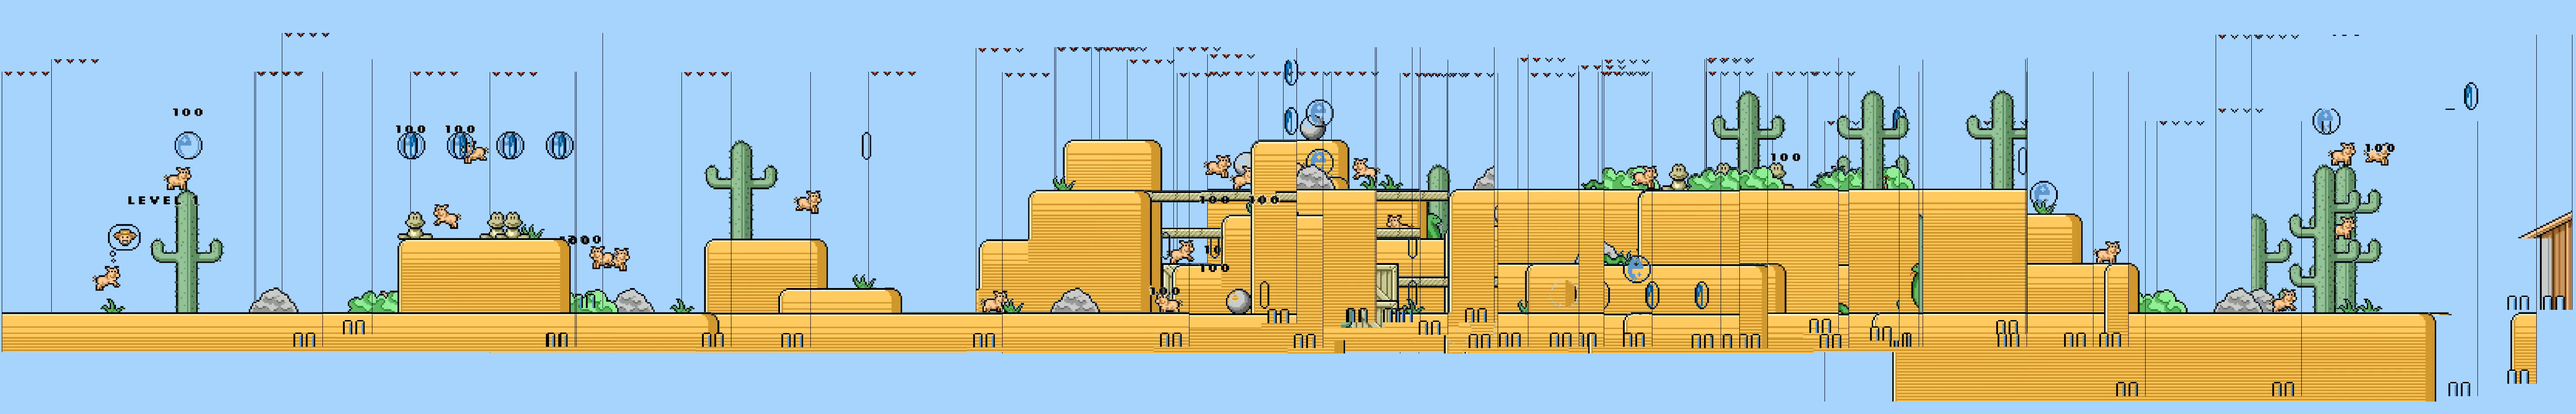
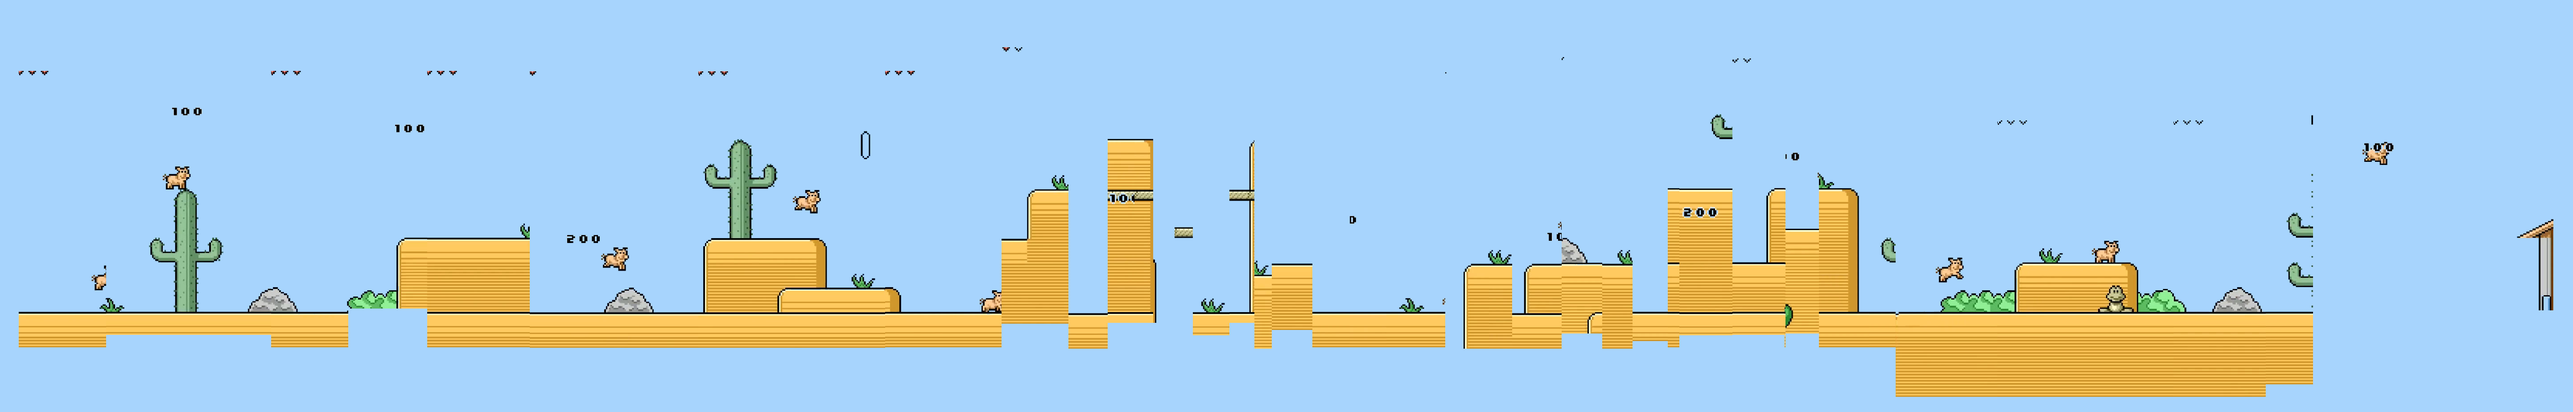
Pack level 1 to the panorama and add reference strips for all 11 levels.
Level 1 is about 120 tiles: a deeper pit with the rope and column, a 4-tile block, swirl coins, and the bushes and frogs from the frames. Each level now has a stitched panorama and a compare strip.

diff --git a/js/levels.js b/js/levels.js
@@ -12,77 +12,66 @@ var LEVELS = [
     id: 1,
     biome: 'desert',
     sky: 'day',
-    cols: 250,
+    cols: 120,
     rows: 18,
     exit: 'edge',
     goals: {},
-    /* Level 1 from the frames. Flat sand, tall saguaro, rock and grass,
-       then the frog block and four coins, a rope over the pit (column,
-       sphere, crate), stairs, a snake ledge, a high plateau, and the
-       wooden building. No wheeled plank and no swirl sign in the frames. */
-    ground: [[0, 249, 13]],
+    /* Level 1 packed to the stitched panorama, about 120 tiles.
+       Flat sand, saguaro, rock and grass, the 4-tile frog block and four
+       swirls, a cactus terrace, then a deep pit (rope, column, sphere,
+       crate), a plateau with bushes and frogs, and the wood building. */
+    ground: [[0, 119, 13]],
     rects: [
-      [18, 10, 14, 3, TILE.SOLID],
-      [34, 12, 8, 1, TILE.SOLID],
-      [48, 12, 4, 1, TILE.SOLID],
-      [52, 11, 4, 2, TILE.SOLID],
-      [56, 10, 10, 3, TILE.SOLID],
-      [66, 7, 3, 2, TILE.SOLID],
-      [66, 10, 3, 3, TILE.SOLID],
-      [78, 10, 12, 3, TILE.SOLID],
-      [90, 11, 4, 2, TILE.SOLID],
-      [94, 12, 4, 1, TILE.SOLID],
-      [118, 11, 6, 2, TILE.SOLID],
-      [126, 12, 4, 1, TILE.SOLID],
-      [130, 11, 4, 2, TILE.SOLID],
-      [134, 10, 12, 3, TILE.SOLID],
-      [148, 8, 8, 5, TILE.SOLID],
-      [158, 7, 18, 6, TILE.SOLID],
-      [180, 10, 6, 3, TILE.SOLID],
-      [190, 12, 6, 1, TILE.SOLID],
-      [200, 11, 8, 2, TILE.SOLID],
-      [212, 10, 8, 3, TILE.SOLID],
-      [224, 12, 6, 1, TILE.SOLID]
+      [18, 9, 10, 4, TILE.SOLID],
+      [32, 9, 8, 4, TILE.SOLID],
+      [40, 12, 5, 1, TILE.SOLID],
+      [46, 12, 3, 1, TILE.SOLID],
+      [48, 10, 3, 3, TILE.SOLID],
+      [51, 7, 6, 6, TILE.SOLID],
+      [58, 4, 3, 2, TILE.SOLID],
+      [58, 7, 3, 6, TILE.SOLID],
+      [66, 7, 8, 6, TILE.SOLID],
+      [78, 12, 3, 1, TILE.SOLID],
+      [80, 11, 3, 2, TILE.SOLID],
+      [82, 9, 18, 4, TILE.SOLID],
+      [100, 10, 4, 3, TILE.SOLID],
+      [104, 11, 4, 2, TILE.SOLID],
+      [108, 11, 6, 2, TILE.SOLID]
     ],
-    ropes: [[58, 9, 24]],
+    ropes: [[52, 6, 16]],
     tokens: [
-      [7, 4],
-      [20, 5], [23, 5], [26, 5], [29, 5],
-      [62, 7], [72, 6], [76, 7],
-      [104, 5], [104, 7],
-      [110, 6], [114, 6], [117, 6],
-      [128, 11], [132, 11], [136, 11],
-      [178, 8],
-      [214, 5],
-      [230, 8]
+      [8, 4],
+      [20, 4], [22, 4], [25, 4], [27, 4],
+      [54, 5], [60, 4], [63, 5],
+      [75, 6], [75, 8],
+      [84, 6], [88, 6], [92, 6],
+      [110, 6]
     ],
-    frogs: [[28, 9], [168, 6]],
-    snakes: [[140, 9, 3]],
-    cacti: [[6, 12], [40, 11], [102, 12], [162, 6], [196, 11], [214, 9], [232, 12]],
-    buildings: [[238, 8, 8, 5, 'shed']],
-    boulders: [[67, 6, 30]],
-    crates: [[63, 12]],
-    tufts: [[4, 12], [36, 11], [100, 12], [160, 6], [216, 9]],
-    bushes: [[12, 12], [32, 11], [166, 6], [202, 10]],
-    rocks: [[11, 12], [84, 9], [150, 7], [182, 9], [222, 12]],
+    frogs: [[23, 8], [84, 8], [94, 8]],
+    snakes: [[49, 9, 3]],
+    cacti: [[7, 12], [33, 8], [74, 12], [86, 8], [109, 10]],
+    buildings: [[114, 8, 6, 5, 'shed']],
+    boulders: [[59, 3, 30]],
+    crates: [[62, 12]],
+    tufts: [[4, 12], [42, 11], [80, 8], [110, 10]],
+    bushes: [[17, 12], [28, 12], [82, 8], [90, 8], [96, 8]],
+    rocks: [[13, 12], [30, 12], [68, 6], [106, 12]],
     script: [
-      ['goto', 6, 12],
-      ['goto', 6, 6],
-      ['goto', 18, 9],
+      ['goto', 7, 12],
+      ['goto', 7, 6],
+      ['goto', 22, 8],
       ['stomp', 'frog'],
-      ['goto', 38, 11],
-      ['goto', 60, 9],
-      ['goto', 84, 9],
-      ['goto', 104, 12],
-      ['goto', 136, 9],
+      ['goto', 34, 8],
+      ['goto', 42, 11],
       ['stomp', 'snake'],
-      ['goto', 152, 7],
-      ['goto', 162, 6],
+      ['goto', 54, 6],
+      ['goto', 70, 6],
+      ['goto', 76, 12],
+      ['goto', 82, 8],
       ['stomp', 'frog'],
-      ['goto', 184, 9],
-      ['goto', 204, 10],
-      ['goto', 216, 9],
-      ['goto', 246, 12]
+      ['stomp', 'frog'],
+      ['goto', 110, 10],
+      ['goto', 118, 12]
     ]
   },
   {

diff --git a/js/art.js b/js/art.js
@@ -175,11 +175,18 @@ var ART = (function () {
   }
 
   function coin(ctx, x, y) {
-    blob(ctx, x + 6, y + 8, 6.5, 6.5, '#3a86e8', '#14325f');
+    var cx = x + 6, cy = y + 8;
+    blob(ctx, cx, cy, 6.2, 6.2, '#2f74d8', '#102848');
+    ctx.strokeStyle = '#f7fbff';
+    ctx.lineWidth = 1.35;
+    ctx.beginPath();
+    ctx.arc(cx, cy, 3.5, 0.35, 5.5);
+    ctx.stroke();
+    ctx.beginPath();
+    ctx.arc(cx + 0.3, cy, 1.6, 2.4, 5.6);
+    ctx.stroke();
     ctx.fillStyle = '#fff';
-    ctx.fillRect(x + 5, y + 5, 2, 5);
-    ctx.fillRect(x + 5, y + 5, 4, 2);
-    ctx.fillRect(x + 4, y + 9, 3, 2);
+    ctx.fillRect(cx + 1.2, cy - 4.2, 1.8, 1.8);
   }
 
   function sphere(ctx, x, y, s) {
